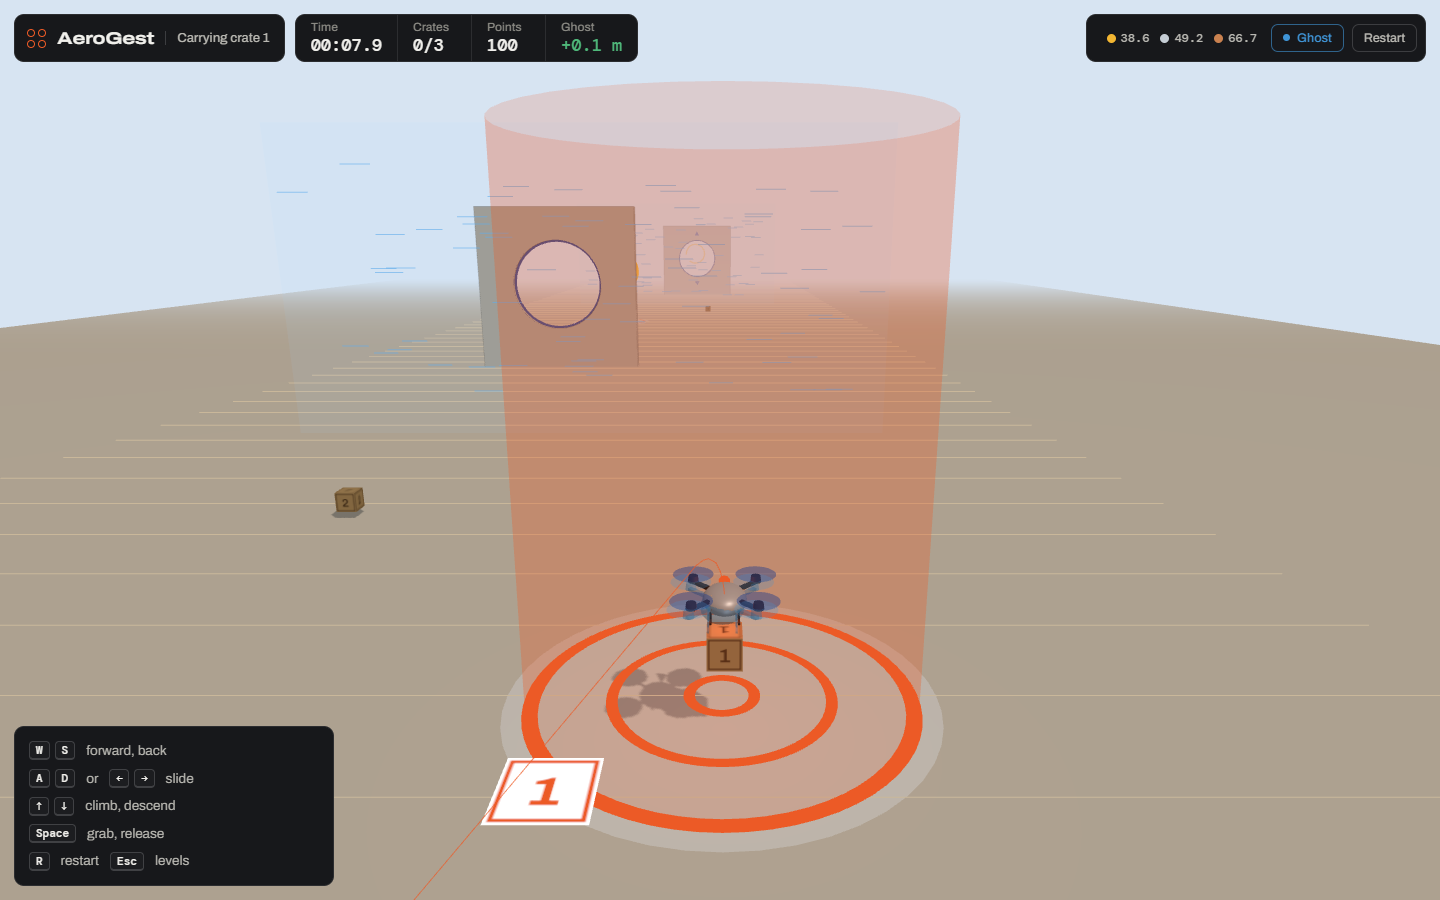
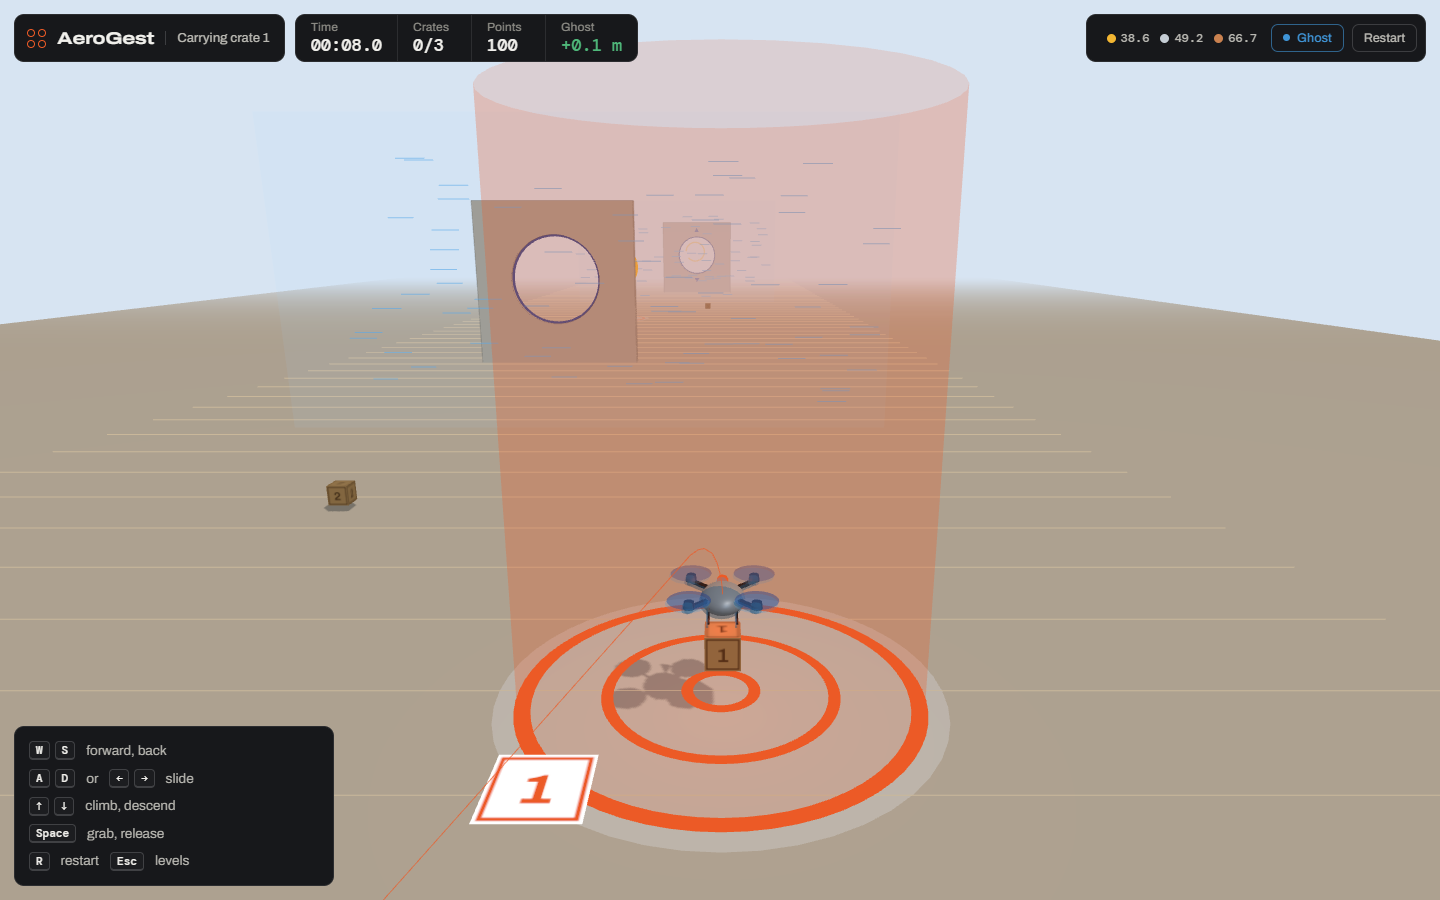
docs

diff --git a/src/main.ts b/src/main.ts
@@ -86,6 +86,7 @@ let warn = "";
 let warnLeft = 0;
 let calloutLeft = 0;
 let crashAge = 0;
+let finalPoints: number | null = null;
 
 
 const references = new Map<string, ReferenceRun>();
@@ -161,6 +162,7 @@ function resetRun(): void {
   finished = false;
   demoRestartAt = 0;
   crashAge = 0;
+  finalPoints = null;
   warn = "";
   warnLeft = 0;
   $("result").hidden = true;
@@ -274,6 +276,7 @@ function finishRun(): void {
   const ref = referenceFor(level);
   const bonus = timePoints(task.score!.time, medalTargets(refTime(level)).bronze);
   const score = { ...task.score!, points: task.score!.points + bonus };
+  finalPoints = score.points;
   const medal = medalFor(score.time, refTime(level));
   const flight: Flight = { level: level.id, pilot: mode, score, samples: recorder.samples.slice() };
   const prev = ghost;
@@ -466,7 +469,7 @@ function frame(now: number): void {
 
   let ghostPose: Sample | null = null;
   let delta: number | null = null;
-  if (ghost && ghostOn && launched) {
+  if (ghost && ghostOn && launched && !task.crashed) {
     ghostPose = sampleAt(ghost.samples, runClock);
     if (ghostPose) delta = drone.z - ghostPose.z;
   }
@@ -488,7 +491,7 @@ function frame(now: number): void {
   const live = scoreOf(task);
   text("time", formatTime(live.time));
   text("crates", `${task.delivery}/${level.deliveries.length}`);
-  text("points", task.points.toLocaleString());
+  text("points", (finalPoints ?? task.points).toLocaleString());
   text("delta", delta === null ? "--" : `${delta >= 0 ? "+" : "−"}${Math.abs(delta).toFixed(1)} m`);
   $("delta").dataset.sign = delta === null ? "" : delta >= 0 ? "ahead" : "behind";
   let phase: string;

diff --git a/src/physics/drone.ts b/src/physics/drone.ts
@@ -45,13 +45,9 @@ export function resetDrone(state: DroneState, x = 0, y = 2.2, z = 0, yaw = 0): v
 }
 
 /**
- * Hover model. Zero stick returns velocity to zero. There is no aerodynamic
- * simulation here: the stick sets a target velocity and the body eases toward it.
- * Yaw 0 faces +z. Positive strafe is to the pilot's right, which is world -x:
- * three.js is right-handed, so a chase camera looking down +z sees +x on the
- * left of the screen. (Earlier versions sent +strafe to +x, so "right" flew
- * the drone left on screen.) Positive yaw rotates the nose toward +x.
- * Wind is an air current in m/s that carries the drone on top of its own velocity.
+ * Hover model: the stick sets a target velocity and the body eases toward it.
+ * Yaw 0 faces +z. Positive strafe is the pilot's right, which is world -x for a
+ * chase camera looking down +z. Wind is added on top of the drone's own velocity.
  */
 export function stepDrone(
   state: DroneState,

diff --git a/GUIDE.md b/GUIDE.md
@@ -1,0 +1,166 @@
+# AeroGest: the full story
+
+How the project works, why it was built this way, and how to defend it. Read it once top to bottom; the headings are there for revision.
+
+---
+
+## 1. The project in 30 seconds
+
+> AeroGest is a browser game where you fly a delivery drone with hand signs in front of your webcam. MediaPipe gives 21 hand landmarks per frame. My classifier turns them into eight commands using MediaPipe's trained gesture model where it is confident and 3D joint-angle rules where it isn't, then smooths the decision with a vote over recent frames. A player can also train a personal k-nearest-neighbour model on their own hand in about 20 seconds. Everything runs on the user's machine; no video leaves the browser.
+
+What it shows: a real-time computer-vision pipeline that has to be *reliable*, not just accurate on a test set. That means turning a noisy per-frame prediction into a control signal someone can actually fly with, and measuring it honestly.
+
+---
+
+## 2. Architecture
+
+```
+webcam ─► MediaPipe GestureRecognizer ─► HandFrame ─► classify() ─► PoseFilter ─► command ─► drone physics ─► game rules ─► three.js
+          (landmarks, 3D world points,     (per frame)   (fusion)       (vote)      (velocity)   (60 Hz)        (crash, points)
+           gesture class + score)
+```
+
+Every input source (hand, keyboard, touch, autopilot) produces the same `ControlCommand` (forward, strafe, altitude, yaw, grab). So the physics and scoring never need to know who is flying, and the autopilot is a fair reference.
+
+---
+
+## 3. Hand tracking: what MediaPipe gives you
+
+- **Model:** MediaPipe Tasks `GestureRecognizer` (float16), running in WebAssembly. It tries the GPU delegate first and falls back to CPU.
+- **Per hand, per frame:**
+  - **21 image landmarks:** x and y normalised to the image, plus a relative depth.
+  - **21 world landmarks:** in metres, centred on the hand. These are what make the joint angles reliable.
+  - **A gesture class with a confidence score:** one of `Open_Palm`, `Closed_Fist`, `Pointing_Up`, `Thumb_Up`, `Thumb_Down`, `Victory`, `ILoveYou`, `None`.
+- The model only runs when the camera has a new frame (not on every render frame), which saves work on slow machines.
+- **Why MediaPipe:** it is accurate, fast enough for real time in a browser, needs no server, and the landmark model was trained on far more hands than any custom dataset I could collect.
+
+The landmark numbering you need: 0 wrist; thumb 1–4; index 5–8; middle 9–12; ring 13–16; pinky 17–20. In each finger the order runs knuckle → middle joint (PIP) → next joint (DIP) → tip.
+
+---
+
+## 4. The classifier (`src/control/gestures.ts`)
+
+### Layer 1: features
+- **Finger bend:**
+  - The angle between the knuckle→middle-joint segment and the middle-joint→tip segment, measured on the **3D world landmarks**.
+  - An angle is the same however the hand is rotated or how far it is from the camera, unlike 2D pixel distances.
+  - **Extended:** bend < 50° *and* the tip is further from the wrist than the middle joint.
+  - **Curled:** bend > 80°, or the tip is closer to the wrist than the middle joint.
+- **Thumb out:**
+  - The thumb is straight (< 60° bend) *and* its tip is clear of the index and middle fingers by more than 0.45 palm lengths.
+  - In a fist the thumb tip rests on the curled fingers, which is how the two cases are told apart.
+- **Thumb direction:** from thumb base to tip in the **mirrored** image, so "your right" means right on the screen.
+- **Pinch gap:** the distance between thumb tip and index tip in centimetres (world landmarks).
+- **Index reach:** the distance from the index tip to the wrist, in palm lengths.
+
+### Layer 2: fusion, in priority order
+1. **Personal model.** If trained and its vote is ≥ 80% confident, use it.
+2. **Pinch → stop.** The gap is < 3.2 cm *and* the index reaches more than one palm length. Without the reach check, a real fist (the thumb touches the index, measured gap about 3 cm) read as stop.
+3. **Fist-like hand.** MediaPipe says `Closed_Fist`/`Thumb_Up`/`Thumb_Down` with score ≥ 0.6, or all four fingers are curled. Then:
+   - thumb out and pointing left/right → slide left/right;
+   - thumbs up → climb;
+   - thumbs down → back;
+   - otherwise → grab.
+4. **MediaPipe classes:** `Open_Palm` → forward, `Pointing_Up` → climb, `Victory` → descend.
+5. **Rules for the rest:** 4 fingers extended (or index+middle+ring) → forward; index+middle → descend; index only → climb.
+
+Why fuse instead of using only MediaPipe's classes? It has no class for "thumb pointing sideways" or "pinch", and its classes drop out at odd angles. Why not only rules? The trained model is more robust where it does apply. Using each where it is strong is the point.
+
+### Layer 3: temporal voting (`PoseFilter`)
+- A new pose takes over only when it wins **5 of the last 7 frames**. **Stop needs only 3**, so braking is fast. A single noisy frame no longer resets the command.
+- **Grab is a toggle**, so it needs the fist **held for 0.35 s**. The sideways-thumb poses start from a fist, and without the hold every slide would briefly grab the crate.
+- If the hand leaves the frame for more than 0.25 s, the drone hovers.
+
+### Personal model ("Teach my hand")
+- **Recording:** 40 frames per pose for all eight poses, which takes about 20 seconds.
+- **Embedding** (one vector per frame):
+  - the 21 world landmarks relative to the wrist, scaled by palm length, with x mirrored;
+  - plus the thumb's direction in the image, since world landmarks alone don't fix which way the hand faces the camera.
+- **Classifier:** k-nearest-neighbours with k = 5. Confidence is the share of the 5 neighbours that agree.
+- **Self-check:** leave-one-out accuracy per pose. Each recorded frame is classified using all the others, so the player sees which poses their hand makes ambiguous.
+- **Why k-NN:** no training step, works from a few hundred samples, runs instantly in the browser, and is easy to explain. A neural network would need far more data and offers nothing extra here.
+
+---
+
+## 5. Testing the vision part honestly
+
+- **Synthetic hand:**
+  - The unit tests build a hand from finger chains in metres with a per-joint curl, then project it to the image. The thumb can be open, tucked, sideways, up, down or pinched, and there is a left-hand variant.
+  - This tests every rule and the known confusions (fist vs. sideways thumb, fist vs. pinch) without needing a camera.
+- **Real hands:**
+  - MediaPipe's own sample photos were turned into a fake webcam stream (Chrome's `--use-file-for-fake-video-capture`) and fed through the running app.
+  - Open hand, pointing, victory, thumbs up/down, fist, and both sideways thumbs (thumbs-up rotated 90°) were all recognised correctly.
+  - There was no pinch photo, so pinch is covered by the synthetic tests only.
+- **The bugs that testing caught**, worth mentioning because they show debugging:
+  1. Pinch never fired: the first rule required the index to be *extended*, but a real pinch curls it.
+  2. A fist read as "slide left", because the thumb check ran before the fist check.
+  3. One noisy frame reset the pose to stop, so control stuttered. Voting fixed it.
+  4. Left and right were swapped in the physics. three.js is right-handed, so +x is screen-left for a camera looking down +z.
+
+---
+
+## 6. The drone and the game
+
+- **Physics** (`physics/drone.ts`):
+  - **Kinematic hover model:** the command sets a target velocity (up to 7.5 m/s horizontally, 4.2 m/s vertically). The drone eases toward it exponentially with a time constant of about 0.18 s.
+  - **Wind** adds a velocity on top.
+  - **Why not a real quadrotor model:** with hand control, you want the drone to do what the pose says. Thrust/attitude dynamics would make a gesture interface unflyable, and the project is about the interface.
+- **Levels** (`course/levels.ts`): six levels with gates (walls with a hole), moving gates (sinusoidal slide/bob), wind zones, bonus rings and 1–3 crate deliveries. Distances were stretched 1.8× so there is room to see the drone and line up between walls.
+- **Rules** (`course/task.ts`):
+  - **Crashes:** touching a wall is a crash and ends the run. The hit test is a box around the gate minus the hole, and it follows moving gates.
+  - **Gate credit:** a gate counts when the path segment between two frames crosses its plane inside the hole. Testing the segment, not just the end points, means a fast drone can't skip through between frames.
+  - **Crates:** must be picked up and dropped in order, and drops only count on the pad.
+- **Points** (`course/points.ts`): gate 100, ring 150, crate 400 + up to 200 for landing near the pad centre, and 40 per second under the bronze time.
+- **Medal time:** flight time + 2 s per metre a crate lands off-centre − 1.5 s per ring.
+- **Camera:** an 8 m chase camera. Walls you've passed fade to 12% opacity, because otherwise the wall you just flew through hides the drone.
+
+### The autopilot (`autopilot/`)
+- A waypoint pilot. It flies to points before and after each gate and ring, settles over the crate, grabs, flies to the pad, and drops.
+- **Moving gates:** it aims at where the hole will be when it arrives (it predicts with the estimated time of arrival).
+- **Wind:** it subtracts the known wind from its velocity command.
+- **Medals:** it flies every level headlessly at 60 Hz (deterministic). That time sets the medals: gold within 10%, silver 40%, bronze 90%. It is also the ghost for new players.
+- **Test:** a unit test requires it to finish every level, through every gate and ring, with every crate delivered and no crash. If someone edits a level and makes it impossible, the test fails.
+
+---
+
+## 7. Engineering choices you may be asked about
+
+- **Why the browser and not Python + OpenCV:** zero install for the user, free static hosting (Render), and privacy (video never leaves the tab). The cost is that the whole pipeline must fit a frame budget in JavaScript.
+- **Why TypeScript + Vite + three.js:** type safety for a project with many interacting parts, fast builds, and three.js is the standard WebGL library.
+- **Why tests run before deploy:** `npm ci && npm test && npm run build` on Render, so a broken classifier or impossible level can't ship.
+- **Latency:** the pilot panel shows model latency and fps. The vote adds about 5 frames (~80–170 ms depending on camera fps) before a pose change, a deliberate trade of a little lag for no flicker. Stop is faster, at 3 frames.
+
+---
+
+## 8. Questions you should be ready for
+
+**How accurate is it?**
+On the sample photos, every tested pose was right. I don't have a user study, so I don't claim a percentage. The personal model reports its own leave-one-out accuracy per user, which is the honest number for that person's hand and camera.
+
+**What happens with a left hand?**
+Joint angles don't depend on handedness, and the thumb direction is measured in the mirrored image, so "thumb to your right" means right for either hand. The synthetic tests include a left hand.
+
+**Why majority voting rather than a Kalman filter or an HMM?**
+The output is a discrete class, not a continuous quantity, so a Kalman filter doesn't fit. An HMM would work but needs transition probabilities I'd have to guess. Voting has two parameters, a clear meaning, and a measurable delay.
+
+**What breaks it?**
+Poor lighting, the hand partly out of frame, and the hand turned edge-on to the camera (fingers overlap in 2D, so the landmarks are less reliable). The personal model and the speed slider are the user-side fixes.
+
+**Is the autopilot "AI"?**
+No, and I don't call it that. It's a scripted waypoint controller. Its job is to prove every level is completable and to set fair medal times.
+
+**What would you do next?**
+- A small user study (time-to-complete and gesture error rates across people).
+- Collect real labelled frames and train a small MLP on the landmark vectors to replace the hand-tuned rules.
+- Dynamic gestures (swipes) using a short temporal window.
+
+---
+
+## 9. Words to know
+
+- **Landmarks:** keypoints the model locates on the hand (21 per hand).
+- **World landmarks:** the same points in metres in 3D, relative to the hand.
+- **Delegate:** where MediaPipe runs inference (GPU or CPU).
+- **k-NN:** classify by majority label of the k closest stored examples.
+- **Leave-one-out:** evaluate each sample using a model built from all the others.
+- **Rising edge:** a signal changing from off to on. The grab acts on that moment only, so holding a fist can't grab and drop at once.

diff --git a/README.md b/README.md
@@ -2,7 +2,9 @@
 
 Fly a delivery drone with hand signs from a webcam. Hand tracking (MediaPipe) runs in the browser; there is no backend.
 
-![Level select](docs/preview.png)
+![Level select, with the autopilot flying the demo behind it](docs/preview.png)
+
+[GUIDE.md](GUIDE.md) explains how it all works and why: the gesture pipeline, the game logic, the autopilot, and the questions to expect.
 
 ## Gestures
 
@@ -32,12 +34,14 @@ Tests use a synthetic hand (finger chains with per-joint curl, projected to the 
 
 Six levels: a guided flight school, then gates, two- and three-crate deliveries, sliding and bobbing gates, crosswinds, and a night level with tight rings.
 
-- Touching a wall crashes the drone and ends the run.
+- Touching a wall crashes the drone and ends the run. Walls you have passed fade out so they never hide the drone.
 - Points: 100 per gate, 150 per bonus ring, 400 per crate plus up to 200 for landing it on the pad center, and 40 per second under the bronze time.
 - Medals are set from the autopilot's time on each level (gold within 10%, silver 40%, bronze 90%).
 - Your best run replays as a ghost; until you have one, the autopilot's run does.
 
-![Debrief](docs/debrief.png)
+![Crash](docs/crash.png)
+
+![Debrief: medal, points, path against the ghost, altitude and speed](docs/debrief.png)
 
 The autopilot flies the menu demo and sets the reference times. It outputs the same command as a hand or keyboard, so it goes through the same physics and scoring. A test requires it to finish every level through every gate without a crash.
 
